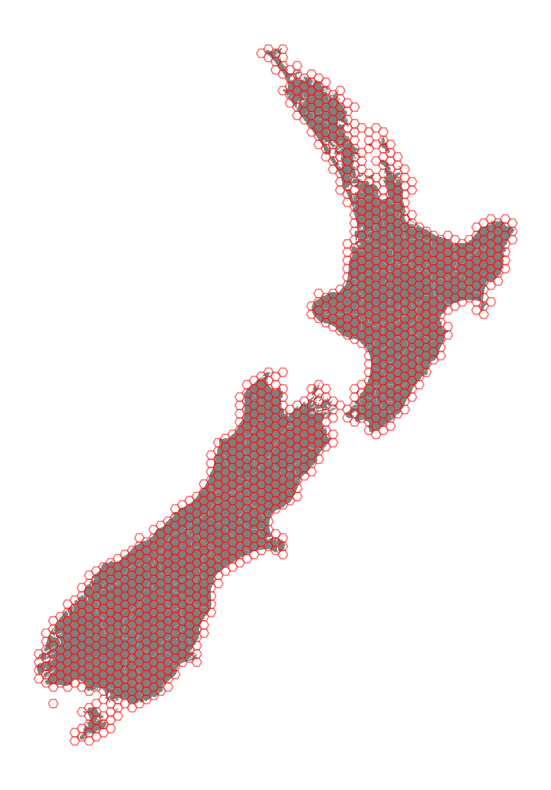
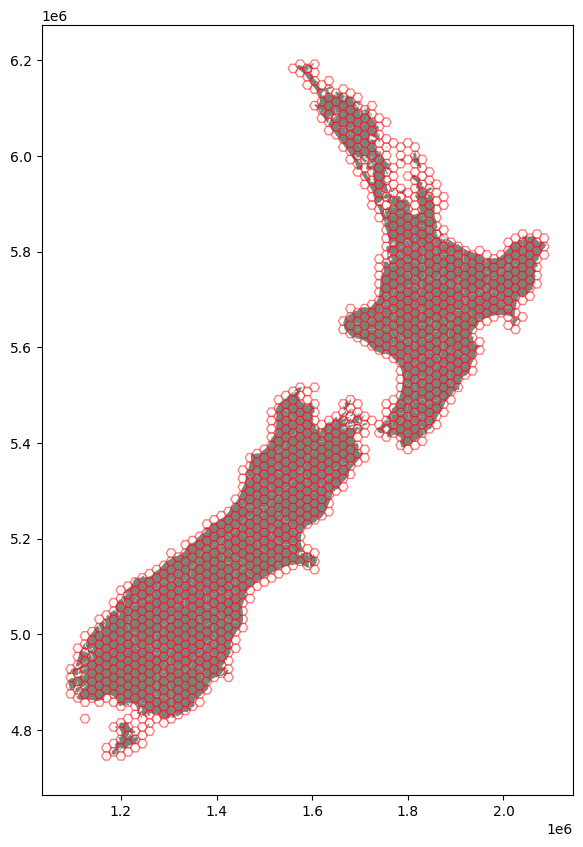
Updated README

diff --git a/README.rst b/README.rst
@@ -20,7 +20,7 @@ The main non-feature of this library is
 
 - Making any other kind of grid, e.g. ones with pointy-top hexagons, squares, triangles, kisrhombilles, Penrose tiles...
 
-Here's an typical example.
+Here's a typical example.
 
 .. code-block:: python
 
@@ -34,7 +34,7 @@ Here's an typical example.
   grid = ghg.make_grid_from_gdf(nz, R=10_000)
 
   # Plot
-  base = nz.plot(color="black", figsize=(20, 20), aspect="equal")
+  base = nz.plot(color="black", figsize=(10, 10), aspect="equal")
   grid.plot(ax=base, color="white", edgecolor="red", alpha=0.5)
 
 
